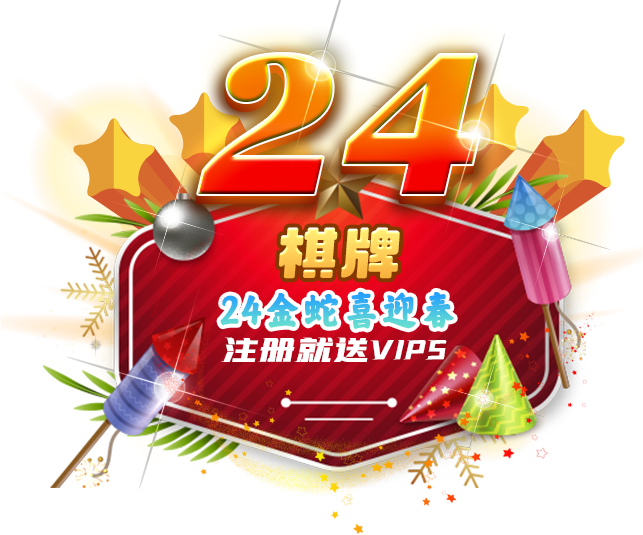
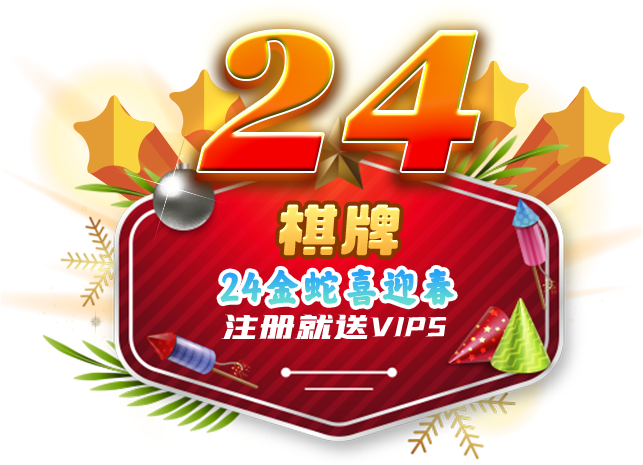
afdf

diff --git a/assets/css/sty.css b/assets/css/sty.css
@@ -74,7 +74,7 @@ body, html {
     }
 
 .top img {
-    width: 65%;
+    /* width: 65%; */
     display: block;
     /* padding-top: 18rem; */
     right: 10%;
